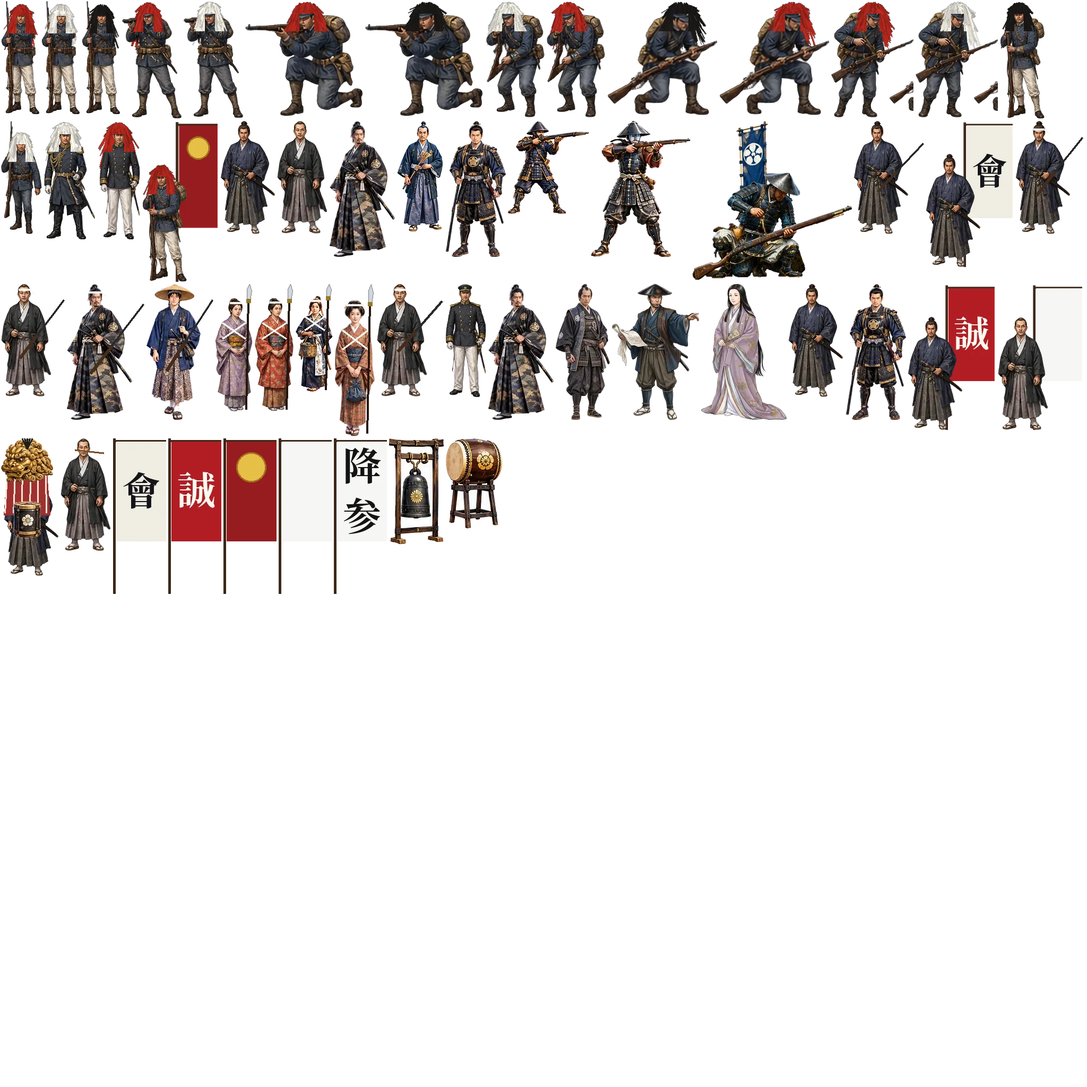
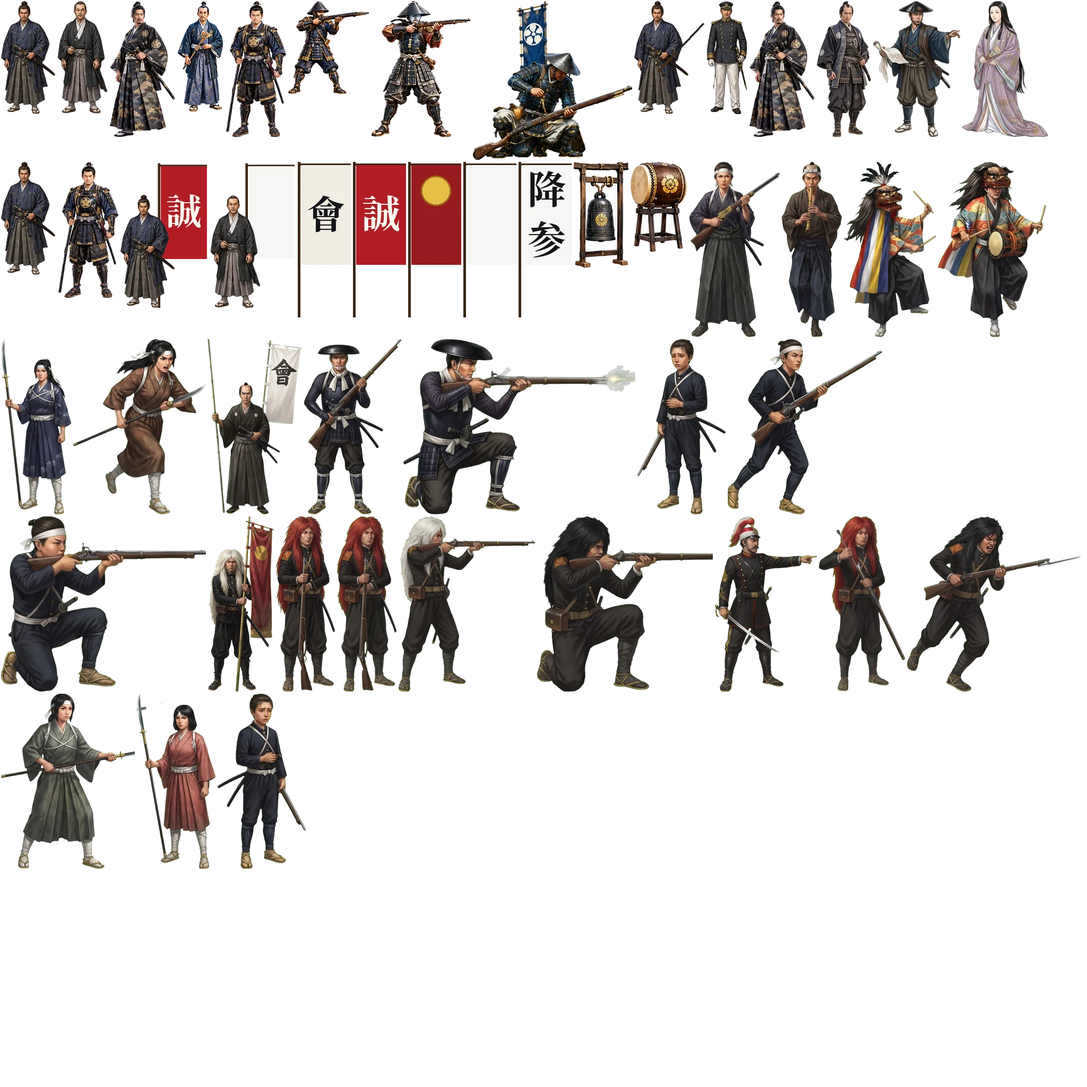
戊辰戦争の人物を描き起こしの絵に差し替え（新政府軍の赤熊・白熊・黒熊、錦の御旗、会津藩兵、白虎隊、娘子隊、山本八重、彼岸獅子）
Claude-Session: https://claude.ai/code/session_01QTjZDqYLxbLuLre2rSDNLb

diff --git a/index.html b/index.html
@@ -2937,7 +2937,7 @@ addEventListener('resize',sizePost); $('tQual').addEventListener('click',sizePos
 
 /* ================= 切り抜き画像（スプライト）: 人物・装飾品をアトラス画像から並べる ================= */
 const ATLAS_META={"size":2048,"pages":4,"s":{"t_nobori":[0,2,2,98,300,3.4],"g_nobori":[0,102,2,133,300,3.0],"nb_rokumon":[0,237,2,111,300,4.2],"kinsen":[0,350,2,103,300,4.2],"sennari":[0,455,2,88,300,4.2],"kama":[0,545,2,176,300,0.35],"chaire":[0,723,2,242,300,0.22],"ex_chatsubo":[0,967,2,269,300,0.42],"ex_do":[0,1238,2,192,300,0.7],"ex_hyotan":[0,1432,2,214,300,0.38],"ex_jingasa":[0,1648,2,300,300,0.32],"ex_kabuto1":[0,2,304,235,300,0.55],"ex_kabuto2":[0,239,304,256,300,0.55],"ex_kabuto3":[0,497,304,239,300,0.55],"ex_kabuto_bariin":[0,738,304,196,300,0.62],"ex_konten":[0,936,304,231,300,0.55],"ex_kouro":[0,1169,304,230,300,0.42],"ex_tsubo_matsu":[0,1401,304,251,300,0.42],"ex_vase_imari":[0,1654,304,148,300,0.5],"k_nb_aoi":[0,1804,304,84,300,4.2],"k_nb_ii":[0,1890,304,84,300,4.2],"k_nb_maeda":[0,2,606,94,300,4.2],"obj_hashigo":[0,98,606,139,300,4.5],"r_act_kiba":[0,239,606,259,300,2.9],"t_nb_green":[0,500,606,78,300,4.2],"t_nb_mori":[0,580,606,82,300,4.2],"k_nobori_b":[0,664,606,116,300,3.4],"r_act_kiba_b":[0,782,606,150,300,2.9],"t_nobori_b":[0,934,606,95,300,3.4],"k_act_reload":[0,1031,606,300,299,1.9],"ki_maru":[0,1333,606,300,299,1.1],"ki_jumonji":[0,1635,606,300,292,1.1],"ki_hyotan":[0,2,908,300,289,1.1],"ex_jinbaori1":[0,304,908,300,285,0.95],"ex_jinbaori2":[0,606,908,300,283,0.95],"ki_kashiwa":[0,908,908,300,282,1.1],"tsukaiban":[0,1210,908,300,281,2.7],"lord_green":[0,1512,908,300,277,1.25],"nb_black":[0,1814,908,96,276,4.2],"lord_navy":[0,2,1199,300,274,1.25],"horo":[0,304,1199,300,273,2.7],"ex_chawan_oribe":[0,606,1199,300,273,0.16],"nb_white":[0,908,1199,86,270,4.2],"k_act_fire":[0,996,1199,300,268,2.1],"nb_red":[0,1298,1199,76,264,4.2],"ki_kiri":[0,1376,1199,300,263,1.1],"nb_blue":[0,1678,1199,77,260,4.2],"ki_jumonji2":[0,2,1475,300,260,1.1],"ki_nibiki":[0,304,1475,300,259,1.1],"ki_mae":[0,606,1475,300,258,1.1],"nb_yellow":[0,908,1475,77,257,4.2],"mokko_b":[0,987,1475,300,257,1.75],"t_hideyori":[0,1289,1475,140,256,1.75],"t_bushou":[0,1431,1475,102,256,1.8],"t_yari":[0,1535,1475,98,256,1.75],"t_yumi":[0,1635,1475,121,256,1.8],"t_uma":[0,1758,1475,144,256,2.5],"r_yumi":[0,1904,1475,122,256,1.8],"taisho":[0,2,1737,135,256,1.85],"y_hb":[0,139,1737,96,256,1.75],"y_dark":[0,237,1737,100,256,1.8],"r_bushou":[0,339,1737,102,256,1.85],"ashigaru":[0,443,1737,112,256,1.75],"r_kiba":[0,557,1737,131,256,2.6],"teppo_a":[0,690,1737,187,256,1.65],"p_lord":[0,879,1737,123,256,1.75],"p_kabuto":[0,1004,1737,101,256,1.8],"p_yari":[0,1107,1737,84,256,1.75],"p_red":[0,1193,1737,108,256,1.8],"p_horse":[0,1303,1737,132,256,2.3],"p_monk":[0,1437,1737,94,256,1.75],"p_ninja":[0,1533,1737,143,256,1.6],"p_woman":[0,1678,1737,75,256,1.6],"p_flag":[0,1755,1737,107,256,2.6],"p_lav":[0,1864,1737,75,256,1.6],"p_porter":[1,2,2,113,256,1.7],"p_noble":[1,117,2,102,256,1.8],"p_orange":[1,221,2,81,256,1.6],"p_point":[1,304,2,101,256,1.75],"p_flagboy":[1,407,2,97,256,2.4],"p_naked":[1,506,2,118,256,1.7],"q_ronin":[1,626,2,112,256,1.75],"q_redw":[1,740,2,83,256,1.6],"q_merchant":[1,825,2,124,256,1.75],"q_yoke":[1,951,2,187,256,1.7],"q_green":[1,1140,2,76,256,1.6],"q_child":[1,1218,2,175,256,1.1],"q_oldw":[1,1395,2,120,256,1.5],"q_girl":[1,1517,2,108,256,1.45],"q_traveler":[1,1627,2,124,256,1.75],"q_purple":[1,1753,2,100,256,1.6],"w_samurai":[1,1855,2,115,256,1.8],"w_red":[1,1972,2,73,256,1.6],"w_yoke":[1,2,260,163,256,1.7],"w_bucket":[1,167,260,80,256,1.55],"w_traveler":[1,249,260,103,256,1.8],"w_boy":[1,354,260,124,256,1.3],"w_umbrella":[1,480,260,90,256,1.7],"w_box":[1,572,260,114,256,1.7],"w_oldw":[1,688,260,113,256,1.5],"w_youth":[1,803,260,102,256,1.75],"w_tray":[1,907,260,78,256,1.6],"w_straw":[1,987,260,110,256,1.75],"lady_walk":[1,1099,260,108,256,1.62],"lady_tray":[1,1209,260,84,256,1.6],"lady_tray2":[1,1295,260,109,256,1.6],"sam_kami":[1,1406,260,123,256,1.8],"sam_haori":[1,1531,260,113,256,1.8],"sam_armor":[1,1646,260,102,256,1.8],"lord_purple":[1,1750,260,246,256,1.25],"sanada":[1,2,518,152,256,2.3],"yodo":[1,156,518,159,256,1.62],"nene":[1,317,518,161,256,1.6],"rikyu":[1,480,518,97,256,1.68],"kimura":[1,579,518,126,256,2.35],"goto":[1,707,518,127,256,2.3],"mitsunari":[1,836,518,114,256,1.75],"ishibiki":[1,952,518,185,256,1.55],"nanban":[1,1139,518,121,256,1.85],"frois":[1,1262,518,87,256,1.75],"touryou":[1,1351,518,106,256,1.72],"ishiku":[1,1459,518,206,256,1.25],"takajo":[1,1667,518,149,256,1.75],"jijo":[1,1818,518,112,256,1.6],"bugyo":[1,2,776,164,256,1.8],"taketaba_a":[1,168,776,183,256,1.75],"teppo_k":[1,353,776,201,256,1.3],"taketaba":[1,556,776,100,256,2.0],"kokuin":[1,658,776,204,256,1.0],"act_carry":[1,864,776,151,256,2.3],"act_flee":[1,1017,776,193,256,2.2],"ex_hata":[1,1212,776,130,256,1.6],"ex_hideyoshi_zo":[1,1344,776,157,256,1.5],"ex_kakejiku_castle":[1,1503,776,128,256,1.5],"k_bs_date":[1,1633,776,199,256,2.6],"k_bs_honda":[1,1834,776,136,256,2.6],"k_bs_ii":[1,2,1034,106,256,2.6],"k_bs_maeda":[1,110,1034,142,256,2.6],"k_bs_matsudaira":[1,254,1034,112,256,2.6],"k_bs_satake":[1,368,1034,155,256,2.6],"k_bs_todo":[1,525,1034,133,256,2.6],"k_bs_uesugi":[1,660,1034,119,256,2.6],"obj_fuda":[1,781,1034,94,256,1.9],"obj_tate":[1,877,1034,202,256,1.6],"t_bs_akashi":[1,1081,1034,128,256,2.6],"t_bs_chosokabe":[1,1211,1034,137,256,2.6],"t_bs_kimura2":[1,1350,1034,125,256,2.6],"t_bs_mori":[1,1477,1034,180,256,2.6],"t_bs_ono":[1,1659,1034,146,256,2.6],"ashigaru_b":[1,1807,1034,104,256,1.75],"ishibiki_b":[1,2,1292,168,256,1.55],"ishiku_b":[1,172,1292,214,256,1.25],"k_act_fire_b":[1,388,1292,223,256,2.1],"k_act_reload_b":[1,613,1292,184,256,1.9],"k_act_taketaba_b":[1,799,1292,216,256,2.3],"k_bs_date_b":[1,1017,1292,191,256,2.6],"k_bs_honda_b":[1,1210,1292,111,256,2.6],"k_bs_ii_b":[1,1323,1292,98,256,2.6],"k_bs_maeda_b":[1,1423,1292,139,256,2.6],"k_bs_matsudaira_b":[1,1564,1292,112,256,2.6],"k_bs_satake_b":[1,1678,1292,131,256,2.6],"k_bs_todo_b":[1,1811,1292,138,256,2.6],"k_bs_uesugi_b":[1,2,1550,140,256,2.6],"k_bushou_b":[1,144,1550,110,256,1.8],"k_captain_b":[1,256,1550,107,256,1.75],"k_teppo_b":[1,365,1550,161,256,1.7],"k_uma_b":[1,528,1550,117,256,2.5],"k_yari_b":[1,647,1550,109,256,1.75],"k_yumi_b":[1,758,1550,164,256,1.8],"ninpu_b":[1,924,1550,104,256,1.65],"p_naked_b":[1,1030,1550,114,256,1.7],"p_porter_b":[1,1146,1550,114,256,1.7],"r_act_fire_b":[1,1262,1550,252,256,2.1],"r_bushou_b":[1,1516,1550,112,256,1.85],"r_kiba_b":[1,1630,1550,124,256,2.6],"r_yumi_b":[1,1756,1550,122,256,1.8],"t_act_yari_b":[2,2,2,229,256,2.0],"t_bs_akashi_b":[2,233,2,127,256,2.6],"t_bs_chosokabe_b":[2,362,2,142,256,2.6],"t_bs_kimura2_b":[2,506,2,134,256,2.6],"t_bs_mori_b":[2,642,2,170,256,2.6],"t_bs_ono_b":[2,814,2,136,256,2.6],"t_bushou_b":[2,952,2,105,256,1.8],"t_uma_b":[2,1059,2,113,256,2.5],"t_yari_b":[2,1174,2,97,256,1.75],"t_yumi_b":[2,1273,2,116,256,1.8],"taketaba_a_b":[2,1391,2,132,256,1.75],"teppo_a_b":[2,1525,2,180,256,1.65],"teppo_k_b":[2,1707,2,173,256,1.3],"y_dark_b":[2,1882,2,107,256,1.8],"y_hb_b":[2,2,260,89,256,1.75],"yari_a_b":[2,93,260,117,256,1.8],"pillar_k":[2,212,260,42,255,2.4],"k_yumi":[2,256,260,137,254,1.8],"ki_umebachi":[2,395,260,300,254,1.1],"kago":[2,697,260,300,253,2.0],"t_teppo_b":[2,999,260,212,253,1.7],"nb_stripe":[2,1213,260,74,252,4.2],"k_tate_b":[2,1289,260,300,250,2.2],"r_act_fire":[2,1591,260,300,249,2.1],"ex_chawan_gold":[2,2,518,270,248,0.16],"nb_yel2":[2,274,518,73,246,4.2],"nb_white2":[2,349,518,71,246,4.2],"ex_sensu_kiri":[2,422,518,300,245,0.32],"ex_kawara":[2,724,518,300,244,0.3],"k_nobori":[2,1026,518,108,242,3.4],"nb_green2":[2,1136,518,63,242,4.2],"k_act_taketaba":[2,1201,518,300,242,2.3],"nb_navyw":[2,1503,518,70,241,4.2],"ex_sensu_tsuru":[2,1575,518,300,239,0.32],"ex_monjo":[2,2,768,300,237,0.3],"ki_naka":[2,304,768,300,237,1.1],"ki_uroko":[2,606,768,300,237,1.1],"nb_purple":[2,908,768,78,236,4.2],"nb_tomoe":[2,988,768,75,236,4.2],"nb_navy":[2,1065,768,75,236,4.2],"ki_sanbo":[2,1142,768,300,236,1.1],"t_teppo":[2,1444,768,181,235,1.7],"mokko":[2,1627,768,300,235,1.75],"nb_cross":[2,1929,768,78,234,4.2],"torch_pole":[2,2,1007,48,234,2.2],"hideyoshi":[2,52,1007,300,233,1.3],"k_bushou":[2,354,1007,99,232,1.8],"nb_green":[2,455,1007,71,231,4.2],"nobori_pair":[2,528,1007,133,229,3.0],"k_ieyasu":[2,663,1007,156,228,1.3],"ex_hako_tsuru":[2,821,1007,300,228,0.4],"nb_white_k":[2,1123,1007,101,227,4],"toro4":[2,1226,1007,93,227,2.0],"nobori_kid":[2,1321,1007,71,225,2.8],"yari_a":[2,1394,1007,105,225,1.8],"kasa":[2,1501,1007,174,225,2.6],"kuge":[2,1677,1007,86,224,1.85],"toro2":[2,1765,1007,70,224,1.9],"k_uma":[2,1837,1007,178,223,2.5],"onna_musha":[2,2,1243,70,223,1.65],"t_monk":[2,74,1243,102,222,1.75],"ex_byobu_castle":[2,178,1243,300,219,1.25],"k_yari":[2,480,1243,101,217,1.75],"yagura_w":[2,583,1243,124,217,4.5],"toro1":[2,709,1243,56,217,0.9],"k_act_climb":[2,767,1243,300,216,2.4],"k_zouhei_b":[2,1069,1243,234,216,1.7],"yagura_flag":[2,1305,1243,120,214,6],"by_pine":[2,1427,1243,314,214,1.7],"by_sakura":[2,1743,1243,277,214,1.7],"armor":[2,2,1468,110,213,1.5],"toro3":[2,114,1468,132,213,2.2],"taore":[2,248,1468,300,212,0.75],"samurai_p":[2,550,1468,97,211,1.75],"samurai_a":[2,649,1468,112,211,1.75],"by_crane":[2,763,1468,253,210,1.7],"ex_hako_kiri":[2,1018,1468,300,210,0.38],"by_iris":[2,1320,1468,190,209,1.7],"t_act_yari":[2,1512,1468,300,209,2.0],"samurai_b":[2,1814,1468,86,208,1.75],"by_tiger":[2,2,1683,180,208,1.7],"chawan":[2,184,1683,300,206,0.09],"by_kiri":[2,486,1683,224,205,1.7],"t_taitsutsu":[2,712,1683,112,204,1.75],"umajirushi":[2,826,1683,122,203,3.0],"kagaribi2":[2,950,1683,55,202,1.7],"obj_hyorou":[2,1007,1683,300,202,1.0],"kakejiku":[2,1309,1683,77,201,1.6],"bell":[2,1388,1683,103,200,2.4],"musume_r":[2,1493,1683,63,198,1.6],"ex_byobu_sakura":[2,1558,1683,300,198,1.25],"yari_pair":[2,1860,1683,124,197,1.75],"houou":[3,2,2,196,196,1.4],"tabisou":[3,200,2,88,193,1.8],"kuge_g":[3,290,2,88,193,1.8],"ex_byobu_castle2":[3,380,2,300,189,1.25],"uma_rider":[3,682,2,162,187,2.3],"yagura":[3,846,2,117,187,6],"lan_white":[3,965,2,84,186,0.8],"kabuto":[3,1051,2,127,185,0.6],"maku_r":[3,1180,2,93,184,1.6],"maku_w":[3,1275,2,98,183,1.6],"maku_p":[3,1375,2,101,182,1.6],"k_monk":[3,1478,2,96,181,1.75],"onna_b":[3,1576,2,70,181,1.6],"andon_g":[3,1648,2,91,181,0.85],"kagaribi":[3,1741,2,52,179,1.7],"saku":[3,1795,2,199,179,2.2],"lan_red":[3,2,200,71,178,0.8],"koshi":[3,75,200,237,178,1.8],"ex_emaki1":[3,314,200,300,178,0.32],"shoji":[3,616,200,260,177,1.8],"lan_tomoe":[3,878,200,65,176,0.8],"k_teppo":[3,945,200,153,175,1.7],"shonin":[3,1100,200,85,174,1.7],"ex_emaki2":[3,1187,200,300,173,0.32],"taiko":[3,1489,200,107,170,1.5],"fs_castle":[3,1598,200,284,170,1.8],"fs_ume":[3,2,380,241,170,1.8],"fs_pine":[3,245,380,271,170,1.8],"chochin":[3,518,380,81,170,1.2],"ex_norimono":[3,601,380,300,170,1.25],"workers":[3,903,380,211,169,1.8],"okami_p":[3,1116,380,59,169,1.6],"jin_gate":[3,1177,380,219,168,3.4],"teppo_line":[3,1398,380,281,167,1.7],"ninpu":[3,1681,380,72,167,1.65],"oni2":[3,1755,380,187,164,1.0],"ikebana":[3,2,552,110,163,0.7],"cannon_c":[3,114,552,275,162,1.9],"roujin":[3,391,552,85,162,1.65],"andon":[3,478,552,81,162,0.9],"onigawara":[3,561,552,187,162,1.2],"wara":[3,750,552,91,161,1.7],"miko":[3,843,552,61,159,1.6],"bonsai":[3,906,552,147,159,0.6],"ishiyama":[3,1055,552,300,159,1.6],"k_captain":[3,1357,552,106,158,1.75],"cart":[3,1465,552,203,158,1.9],"maru_mado":[3,1670,552,152,158,1.2],"log":[3,1824,552,106,155,1.6],"lan_small":[3,1932,552,45,153,1.3],"kg_pair":[3,2,717,75,152,0.9],"bows":[3,79,717,70,149,2.0],"mon_board":[3,151,717,192,149,1.6],"t_yuso":[3,345,717,204,148,1.9],"gold_uma":[3,551,717,77,148,2.6],"ex_katana1":[3,630,717,300,147,0.42],"cabinet":[3,932,717,101,146,1.0],"ryu_c":[3,1035,717,197,145,1.0],"t_ninja":[3,1234,717,122,144,1.4],"ryu":[3,1358,717,216,144,1.2],"ex_byobu_kassen":[3,1576,717,300,144,1.25],"by_small":[3,2,871,186,143,1.2],"k_ninja":[3,190,871,121,142,1.4],"shelf":[3,313,871,146,142,0.9],"shishi":[3,461,871,167,142,1.2],"saru":[3,630,871,169,142,0.8],"jar":[3,801,871,89,141,0.55],"taka":[3,892,871,92,141,0.7],"t_hoju":[3,986,871,155,140,1.9],"spears":[3,1143,871,11,140,2.6],"jinmaku":[3,1156,871,300,138,1.8],"vase":[3,1458,871,72,137,0.55],"ex_teppo":[3,1532,871,300,137,0.38],"k_act_ozutsu":[3,2,1016,300,135,2.0],"ex_katana2":[3,304,1016,300,133,0.42],"shura":[3,606,1016,300,132,1.6],"saku_w":[3,908,1016,300,131,2.0],"arrows":[3,1210,1016,31,131,1.1],"chest":[3,1243,1016,183,131,0.6],"shishi_c":[3,1428,1016,119,131,0.8],"act_fallen":[3,1549,1016,300,131,0.8],"hana_c":[3,1851,1016,128,130,0.8],"ogi":[3,2,1153,190,129,0.55],"houou_c":[3,194,1153,122,129,0.8],"sakamogi":[3,318,1153,300,127,1.7],"tora_c":[3,620,1153,157,127,0.8],"obj_mokko":[3,779,1153,300,127,0.7],"k_hoju":[3,1081,1153,236,126,1.8],"k_kago":[3,1319,1153,174,125,2.1],"kodomo":[3,1495,1153,59,125,1.2],"kg_t":[3,1556,1153,35,124,0.9],"kg_pair2":[3,1593,1153,75,124,0.9],"taka_c":[3,1670,1153,143,124,0.8],"rail_k":[3,1815,1153,216,123,0.9],"oni5":[3,2,1284,188,122,0.7],"ex_katana3":[3,192,1284,300,122,0.42],"k_zouhei":[3,494,1284,159,121,1.7],"k_tate":[3,655,1284,176,121,2.2],"box_l":[3,833,1284,150,121,0.5],"kg_door":[3,985,1284,76,121,1.0],"ozutsu":[3,1063,1284,300,121,1.4],"guns":[3,1365,1284,85,120,1.6],"machishu":[3,1452,1284,138,117,1.7],"oni6":[3,1592,1284,185,117,0.65],"cannon":[3,1779,1284,199,116,1.1],"k_yuso":[3,2,1408,140,115,1.9],"kg_plate":[3,144,1408,65,115,0.8],"flags2":[3,211,1408,86,114,1.6],"kg_t2":[3,299,1408,39,114,0.9],"chest_m":[3,340,1408,159,113,0.6],"cart2":[3,501,1408,155,112,1.8],"kadomatsu":[3,658,1408,55,112,1.2],"incense":[3,715,1408,73,111,0.6],"tassel":[3,790,1408,77,111,0.6],"dais":[3,869,1408,158,109,1.2],"oni3":[3,1029,1408,161,109,0.8],"pot":[3,1192,1408,102,108,0.7],"kouro":[3,1296,1408,124,106,0.4],"crane_c":[3,1422,1408,205,105,0.9],"rail_k2":[3,1629,1408,239,104,0.8],"rail_r":[3,2,1525,186,100,0.8],"kg_panel":[3,190,1525,127,100,0.8],"lowtable":[3,319,1525,271,97,0.35],"shogi":[3,592,1525,120,97,0.5],"chest_r":[3,714,1525,142,96,0.7],"fence_r":[3,858,1525,157,95,0.9],"barrels":[3,1017,1525,150,94,1.2],"kin_byobu":[3,1169,1525,130,94,1.4],"chaki":[3,1301,1525,165,94,0.25],"table":[3,1468,1525,240,93,0.35],"crates":[3,1710,1525,151,92,1.1],"tray_r":[3,1863,1525,170,91,0.25],"oni4":[3,2,1627,161,88,0.55],"drumbox":[3,165,1627,64,87,0.6],"tawara":[3,231,1627,82,86,0.55],"box_s":[3,315,1627,123,86,0.3],"kome":[3,440,1627,125,85,1.2],"mon_hana":[3,567,1627,82,84,0.6],"oni7":[3,651,1627,66,83,0.5],"oni8":[3,719,1627,56,83,0.5],"mon_d":[3,777,1627,81,82,0.6],"trunk":[3,860,1627,114,81,0.6],"mon_sakura":[3,976,1627,81,81,0.6],"chest_k":[3,1059,1627,123,79,0.7],"mon_a":[3,1184,1627,79,79,0.6],"mon_tomoe":[3,1265,1627,78,79,0.6],"zabuton_g":[3,1345,1627,103,76,0.15],"ranma3":[3,1450,1627,512,76,0.6],"mon_c":[3,1964,1627,75,76,0.6],"mon_kiku":[3,2,1717,75,76,0.6],"mon_mokko":[3,79,1717,76,76,0.6],"ranma4":[3,157,1717,512,75,0.6],"mon_hishi":[3,671,1717,75,75,0.6],"bucket":[3,748,1717,58,73,0.5],"zabuton_r":[3,808,1717,136,73,0.15],"ranma1":[3,946,1717,512,73,0.7],"zabuton_p":[3,1460,1717,98,71,0.15],"mon_b":[3,1560,1717,77,71,0.6],"kg_h":[3,1639,1717,172,70,0.35],"ranma2":[3,2,1795,512,67,0.6],"ranma7":[3,516,1795,265,66,0.45],"ranma8":[3,783,1795,270,66,0.45],"ranma5":[3,1055,1795,266,65,0.45],"ranma6":[3,1323,1795,270,65,0.45],"kumo_c":[3,1595,1795,127,64,0.45],"stool":[3,1724,1795,94,58,0.45],"kg_h2":[3,1820,1795,170,45,0.3],"kg_stud":[3,1992,1795,36,39,0.14],"noki_end":[3,2,1864,152,37,0.25],"kg_stud3":[3,156,1864,34,35,0.14],"kg_stud2":[3,192,1864,31,31,0.12]}};
-ATLAS_META.pages=6; Object.assign(ATLAS_META.s,KMD); const AZD={"az_kan_hohei_a_r":[5,2,2,72,214,1.82],"az_kan_hohei_a_w":[5,78,2,72,214,1.82],"az_kan_hohei_a_b":[5,154,2,72,214,1.82],"az_kan_aim_r":[5,230,2,112,221,1.82],"az_kan_aim_w":[5,346,2,112,220,1.82],"az_kan_kneel_r":[5,462,2,222,217,1.19],"az_kan_kneel_b":[5,688,2,222,217,1.19],"az_kan_load_w":[5,914,2,112,219,1.64],"az_kan_load_r":[5,1030,2,110,219,1.64],"az_kan_crouch_b":[5,1144,2,207,215,1.06],"az_kan_crouch_r":[5,1355,2,207,215,1.06],"az_kan_charge_r":[5,1566,2,155,219,1.7],"az_kan_charge_w":[5,1725,2,155,219,1.7],"az_kan_hohei_b_b":[5,1884,2,84,222,1.82],"az_kan_hohei_c_w":[5,2,228,77,213,1.84],"az_kan_shirei":[5,83,228,96,223,1.89],"az_kan_shikan":[5,183,228,81,223,1.84],"az_kinki":[5,268,228,144,303,2.58],"az_ai_shizoku":[5,416,228,102,213,1.72],"az_ai_shosei":[5,522,228,95,212,1.7],"az_ai_sam_kami":[5,621,228,123,256,1.8],"az_ai_samurai_b":[5,748,228,86,208,1.75],"az_ai_w_samurai":[5,838,228,115,256,1.8],"az_ai_k_teppo":[5,957,228,153,175,1.7],"az_ai_teppo_a":[5,1114,228,187,256,1.65],"az_ai_k_act_reload":[5,1305,228,300,299,1.9],"az_ai_gun":[5,1609,228,132,213,1.72],"az_aizuflag":[5,1745,228,165,276,2.58],"az_byakko0":[5,1914,228,127,213,1.6],"az_byakko1":[5,2,535,120,212,1.6],"az_byakko2":[5,126,535,146,256,1.6],"az_byakko3":[5,276,535,126,256,1.6],"az_joshi0":[5,406,535,70,240,1.6],"az_joshi1":[5,480,535,73,240,1.6],"az_joshi2":[5,557,535,70,203,1.6],"az_joshi3":[5,631,535,75,287,1.6],"az_yae":[5,710,535,125,212,1.56],"az_hijikata":[5,839,535,77,213,1.72],"az_saito":[5,920,535,123,256,1.75],"az_katamori":[5,1047,535,102,256,1.68],"az_tanomo":[5,1153,535,164,256,1.66],"az_teruhime":[5,1321,535,161,256,1.58],"az_yamakawa":[5,1486,535,102,213,1.72],"az_byakko_sen":[5,1592,535,115,256,1.66],"az_makoto":[5,1711,535,165,276,2.58],"az_hakki":[5,1880,535,161,276,2.55],"az_shishi":[5,2,826,108,259,1.85],"az_fue":[5,114,826,95,212,1.7],"az_nobori_ai":[5,213,826,100,293,3.4],"az_nobori_makoto":[5,317,826,100,293,3.4],"az_kinki_pole":[5,421,826,100,293,3.6],"az_shirahata":[5,525,826,100,293,3.2],"az_kouhuku":[5,629,826,100,293,3.2],"az_bell":[5,733,826,103,200,2.4],"az_taiko":[5,840,826,107,170,1.5]}; Object.assign(ATLAS_META.s,AZD); /* 6ページ目: 鶴ヶ城の人物（新政府軍・会津藩兵・白虎隊・娘子隊・新選組・彼岸獅子など。assets/deco_aizu.webp） */
+ATLAS_META.pages=6; Object.assign(ATLAS_META.s,KMD); const AZD={"az_ai_shizoku":[5,2,2,102,213,1.72],"az_ai_shosei":[5,108,2,95,212,1.7],"az_ai_sam_kami":[5,207,2,123,256,1.8],"az_ai_samurai_b":[5,334,2,86,208,1.75],"az_ai_w_samurai":[5,424,2,115,256,1.8],"az_ai_k_teppo":[5,543,2,153,175,1.7],"az_ai_teppo_a":[5,700,2,187,256,1.65],"az_ai_k_act_reload":[5,891,2,300,299,1.9],"az_ai_gun":[5,1195,2,132,213,1.72],"az_hijikata":[5,1331,2,77,213,1.72],"az_saito":[5,1412,2,123,256,1.75],"az_katamori":[5,1539,2,102,256,1.68],"az_tanomo":[5,1645,2,164,256,1.66],"az_teruhime":[5,1813,2,161,256,1.58],"az_yamakawa":[5,2,305,102,213,1.72],"az_byakko_sen":[5,108,305,115,256,1.66],"az_makoto":[5,227,305,165,276,2.58],"az_hakki":[5,396,305,161,276,2.55],"az_nobori_ai":[5,561,305,100,293,3.4],"az_nobori_makoto":[5,665,305,100,293,3.4],"az_kinki_pole":[5,769,305,100,293,3.6],"az_shirahata":[5,873,305,100,293,3.2],"az_kouhuku":[5,977,305,100,293,3.2],"az_bell":[5,1081,305,103,200,2.4],"az_taiko":[5,1188,305,107,170,1.5],"az_yae":[5,1299,305,170,330,1.6],"az_fue":[5,1473,305,113,330,1.68],"az_shishi":[5,1590,305,173,330,1.95],"az_shishi2":[5,1767,305,204,330,1.85],"az_joshi1":[5,2,639,132,330,2.2],"az_joshi0":[5,138,639,249,330,1.5],"az_aizuflag":[5,391,639,178,330,2.6],"az_ai_jin":[5,573,639,183,330,1.75],"az_ai_jin_kneel":[5,760,639,437,330,1.2],"az_byakko2":[5,1201,639,166,330,1.58],"az_byakko0":[5,1371,639,291,330,1.6],"az_byakko1":[5,2,973,386,330,1.12],"az_kinki":[5,392,973,124,330,3.4],"az_kan_r_stand":[5,520,973,111,330,1.78],"az_kan_r_stand2":[5,635,973,112,330,1.78],"az_kan_w_aim":[5,751,973,257,330,1.72],"az_kan_b_kneel":[5,1012,973,331,330,1.25],"az_kan_shirei":[5,1347,973,192,330,1.85],"az_kan_r_load":[5,1543,973,162,329,1.78],"az_kan_b_charge":[5,1709,973,327,330,1.5],"az_joshi2":[5,2,1307,252,330,1.65],"az_joshi3":[5,258,1307,148,330,2.05],"az_byakko3":[5,410,1307,166,330,1.58]}; Object.assign(ATLAS_META.s,AZD); /* 6ページ目: 鶴ヶ城の人物（新政府軍・会津藩兵・白虎隊・娘子隊・新選組・彼岸獅子など。assets/deco_aizu.webp） */
  /* 5ページ目: 共通素材 deco_kumamoto.webp */
 const ATL={tex:[],ok:false}; { const tl=new THREE.TextureLoader(); for(let i=0;i<ATLAS_META.pages;i++){ const t=tl.load(i<4?'/oshiro/common/assets/atlas'+i+'.webp':i===4?'/oshiro/common/assets/deco_kumamoto.webp':'assets/deco_aizu.webp',()=>{ ATL.loaded=(ATL.loaded||0)+1; }); t.encoding=THREE.sRGBEncoding; t.anisotropy=4; ATL.tex.push(t); } }
 function sprInfo(n){ const m=ATLAS_META.s[n]; if(!m) return null; const P=ATLAS_META.size; return {page:m[0],u:m[1]/P,v:1-(m[2]+m[4])/P,uw:m[3]/P,vh:m[4]/P,h:m[5],aspect:m[3]/m[4]}; }
@@ -3132,12 +3132,12 @@ function flName(){ const F=FL[P.level]; if(F&&F.zones) for(const z of F.zones) i
 function keepState(s){ KX.visible=true; KXI.visible=true; GOTG.visible=true; }
 function fireStep(){ }
 /* ---------- 部隊（兵の集団）---------- */
-const KAN=['az_kan_hohei_a_r','az_kan_aim_r','az_kan_hohei_a_w','az_kan_kneel_r','az_kan_load_w','az_kan_hohei_a_b','az_kan_crouch_b','az_kan_charge_r','az_kan_aim_w','az_kan_kneel_b','az_kan_load_r','az_kan_crouch_r','az_kan_charge_w','az_kan_hohei_b_b','az_kan_hohei_c_w'],
-  KAN_STAND=['az_kan_hohei_a_r','az_kan_hohei_a_w','az_kan_hohei_a_b','az_kan_hohei_b_b','az_kan_hohei_c_w'],
-  AI_INF=['az_ai_shizoku','az_ai_gun','az_ai_shosei','az_ai_sam_kami','az_ai_samurai_b','az_ai_w_samurai','az_ai_k_teppo','az_ai_teppo_a','az_ai_gun'],AI_LINE=['az_ai_k_teppo','az_ai_teppo_a','az_ai_gun','az_ai_k_act_reload','az_ai_shizoku'],
+const KAN=['az_kan_r_stand','az_kan_w_aim','az_kan_b_kneel','az_kan_r_load','az_kan_b_charge','az_kan_r_stand2','az_kan_w_aim','az_kan_b_kneel'],
+  KAN_STAND=['az_kan_r_stand','az_kan_r_stand2'],
+  AI_INF=['az_ai_jin','az_ai_shizoku','az_ai_jin_kneel','az_ai_gun','az_ai_jin','az_ai_samurai_b','az_ai_k_teppo','az_ai_jin_kneel'],AI_LINE=['az_ai_jin_kneel','az_ai_jin','az_ai_k_teppo','az_ai_jin_kneel','az_ai_teppo_a'],
   SHINSEN=['az_hijikata','az_ai_shizoku','az_ai_gun','az_ai_shosei','az_ai_gun'],BYAKKO=['az_byakko0','az_byakko1','az_byakko2','az_byakko3'],JOSHI=['az_joshi0','az_joshi1','az_joshi2','az_joshi3'],
   CIV=['km_musume','km_onna','km_nofu','km_kodomo','km_mino','km_sou','q_merchant','okami_p','w_box','ninpu'],
-  K_FLAG=['az_nobori_ai'],T_FLAG=['az_kinki_pole'],K_INF=AI_INF,K_LINE=AI_LINE,T_INF=KAN,RED=KAN,WORK=CIV,PULL=CIV;
+  K_FLAG=['az_nobori_ai'],T_FLAG=['az_kinki'],K_INF=AI_INF,K_LINE=AI_LINE,T_INF=KAN,RED=KAN,WORK=CIV,PULL=CIV;
 let UNITS=[],FXS=[],phT=0,PH=null;
 function unit(o){ const u=Object.assign({n:12,w:24,d:6,y:null,fire:0,loss:0,mill:0,spd:1},o); u.side=unitSide(u.spr); u.scal=!u.noScale&&u.n>3&&!!u.side; if(u.scal) u.n=Math.max(1,Math.round(u.n*(UMULT[u.side]??1))); const to=u.to||u.at,dx=to[0]-u.at[0],dz=to[1]-u.at[1],l=Math.hypot(dx,dz);
   const fwd=l>.1?[dx/l,dz/l]:(u.face||[0,-1]); u.fwd=fwd; u.right=[-fwd[1],fwd[0]]; const cols=Math.max(1,Math.round(Math.sqrt(u.n*u.w/Math.max(1,u.d)))),rows=Math.ceil(u.n/cols); u.mem=[];
@@ -3185,7 +3185,7 @@ function dc(sp,x,z,o){ return DC(sp,x,z,o); }
 function who(sp,x,z,name,say,o){ const it=DC(sp,x,z,o||{}); if(it) TALK.push({it,name,say,era:'edo',scen:'boshin'}); return it; }
 const AIZU_HQ=()=>{ who('az_katamori',-24,-30,'松平容保（会津藩主）','会津は将軍家とともにある。この城を枕に、最後まで戦い抜くのじゃ。'); dc('az_nobori_ai',-30,-34,{}); dc('az_nobori_ai',-18,-34,{}); };
 /* 開城の式場の緋毛氈（泣血氈） */
-const FELT=mesh(new THREE.BoxGeometry(8,.06,14),M.felt,false,true); FELT.position.set(-11,.05,-206); GB.add(FELT); FELT.visible=false;
+const FELT=mesh(new THREE.BoxGeometry(5,.06,9),M.felt,false,true); FELT.position.set(-11,.05,-206); GB.add(FELT); FELT.visible=false;
 const SCENS={boshin:{name:'戊辰戦争（慶応4年・1868）',fill:{},phases:[
  {date:'慶応4年（1868）春〜夏',title:'会津、戦いに備える',time:1,dur:70,cam:camTo(300,240,TA.cx,TA.cz,-.25,1),gnd:[462,186,480,170],
   text:'鳥羽・伏見の戦いに敗れたあと、京都守護職として朝廷と幕府を守ってきた会津藩は「朝敵」とされ、新政府軍の矛先が向けられます。会津藩は軍の仕組みを改め、年齢ごとに玄武隊（50歳以上）・青龍隊（36〜49歳）・朱雀隊（18〜35歳）・白虎隊（16〜17歳）を作りました。会津には旧幕府方の兵も集まり、新選組の土方歳三・斎藤一もその中にいました。',
@@ -3200,7 +3200,7 @@ const SCENS={boshin:{name:'戊辰戦争（慶応4年・1868）',fill:{},phases:[
     unit({spr:AI_INF,n:12,at:[545,-525],w:22,d:6,face:[1,-1],fire:.5,aim:[600,-600],to:[505,-490],t0:42,dur:25,back:0,loss:.15});
     unit({spr:KAN,n:16,at:[620,-600],to:[555,-548],t0:2,dur:35,w:36,d:10,fire:.6,fireT0:20,aim:[530,-530],loss:.1});
     unit({spr:KAN,n:12,at:[600,-480],to:[552,-515],t0:10,dur:35,w:24,d:8,fire:.6,fireT0:28,aim:[530,-530]});
-    dc('km_hohou',600,-590,{}); FXS.push({type:'cannon',from:[600,h,-590],to:[535,h+2,-535],every:5,spread:10}); dc('az_kinki_pole',616,-596,{}); }},
+    dc('km_hohou',600,-590,{}); FXS.push({type:'cannon',from:[600,h,-590],to:[535,h+2,-535],every:5,spread:10}); dc('az_kinki',616,-596,{}); }},
  {date:'慶応4年8月22日',title:'白虎隊、出陣（滝沢本陣）',time:1,dur:70,cam:camTo(360,-460,400,-420,-.3,1),gnd:[400,-404,400,-420],
   text:'母成峠が破られたと聞いた藩主・松平容保は、城下の東の滝沢本陣に出陣しました。そして護衛についていた白虎隊士中二番隊（約37人）に、猪苗代湖のほとりの戸ノ口原へ向かうよう命じます。16〜17歳の少年たちは、日向内記に率いられて出陣しました。',
   build(){ who('az_katamori',400,-412,'松平容保（会津藩主）','白虎隊士中二番隊、戸ノ口原へ向かい、敵を防げ。頼んだぞ。'); for(const [x,z] of [[394,-414],[406,-414]]) dc('az_ai_samurai_b',x,z,{}); dc('az_nobori_ai',392,-418,{}); dc('az_nobori_ai',408,-418,{});
@@ -3210,11 +3210,11 @@ const SCENS={boshin:{name:'戊辰戦争（慶応4年・1868）',fill:{},phases:[
   build(){ unit({spr:BYAKKO,n:16,at:[478,-470],w:18,d:5,face:[1,-1],fire:.6,aim:[540,-530],to:[372,-320],t0:30,dur:40,noScale:true});
     unit({spr:AI_INF,n:10,at:[490,-458],w:18,d:6,face:[1,-1],fire:.5,aim:[540,-530],to:[400,-400],t0:28,dur:40,loss:.2});
     unit({spr:KAN,n:18,at:[560,-560],to:[500,-495],t0:2,dur:35,w:36,d:10,fire:.7,fireT0:12,aim:[478,-470]}); unit({spr:KAN,n:12,at:[560,-460],to:[510,-470],t0:8,dur:35,w:22,d:8,fire:.6,fireT0:18,aim:[478,-470]});
-    dc('km_hohou',545,-520,{}); FXS.push({type:'cannon',from:[545,natH(545,-520),-520],to:[482,1,-466],every:4,spread:12}); dc('az_kinki_pole',556,-528,{}); }},
+    dc('km_hohou',545,-520,{}); FXS.push({type:'cannon',from:[545,natH(545,-520),-520],to:[482,1,-466],every:4,spread:12}); dc('az_kinki',556,-528,{}); }},
  {date:'慶応4年8月23日 朝',title:'城下へ突入・北出丸の攻防',time:0,dur:85,cam:camTo(-11,-430,-11,-300,-.35,1),gnd:[-11,-196,-11,-150],
   text:'8月23日の朝、新政府軍は甲賀町口郭門を破って城下になだれ込みました。早鐘が鳴り、藩士の家族は城へ急ぎます。家老・西郷頼母の屋敷では一族21人が自ら命を絶ちました。甲賀町通りを進んだ新政府軍は北出丸からの激しい銃撃に阻まれ、多くの死傷者を出します（北出丸は「鏖丸」と呼ばれたと伝わります）。こうして約1か月にわたる籠城戦が始まりました。',
   build(){ AIZU_HQ(); dc('az_bell',-22,-342,{}); townFires([[-120,-260,8],[130,-280,8],[-200,-300,9],[-60,-420,8],[200,-300,7],[-300,-420,8]]); smokeCols([[0,-380],[-160,-350],[160,-350]]);
-    unit({spr:KAN,n:14,at:[-11,-540],to:[-11,-345],t0:0,dur:25,w:8,d:26,fire:.3,fl:['az_kinki_pole'],flags:1});
+    unit({spr:KAN,n:14,at:[-11,-540],to:[-11,-345],t0:0,dur:25,w:8,d:26,fire:.3,fl:['az_kinki'],flags:1});
     unit({spr:KAN,n:16,at:[-11,-345],to:[-11,-196],t0:22,dur:28,w:10,d:30,fire:.6,fireT0:38,aim:[-11,-150],back:.35,hold:10,bdur:20,loss:.35});
     wallLine(-56,-148,36,-148,PL.kitaide.H,[0,-1],6,{fire:.7}); who('az_ai_sam_kami',-30,-130,'北出丸の守将','引きつけて撃て！ 一人たりとも通すな！');
     unit({spr:CIV,n:14,at:[150,-260],to:[60,-160],t0:0,dur:40,w:20,d:10,noScale:true}); unit({spr:CIV,n:10,at:[-150,-250],to:[-150,-10],t0:5,dur:45,w:14,d:8,noScale:true});
@@ -3230,15 +3230,15 @@ const SCENS={boshin:{name:'戊辰戦争（慶応4年・1868）',fill:{},phases:[
   build(){ unit({spr:JOSHI,n:12,at:[-430,-120],to:[-472,-120],t0:6,dur:22,w:10,d:6,noScale:true,back:.5,hold:12,bdur:20}); who('az_joshi1',-440,-112,'中野竹子（娘子隊）','武士の娘として、薙刀で会津のために戦います！');
     unit({spr:AI_INF,n:8,at:[-436,-140],to:[-470,-135],t0:4,dur:22,w:12,d:6,fire:.5,aim:[-520,-130],back:.5,hold:12});
     unit({spr:KAN,n:12,at:[-540,-120],to:[-500,-120],t0:0,dur:20,w:18,d:10,fire:.8,fireT0:14,aim:[-470,-120],loss:.1}); unit({spr:KAN,n:8,at:[-540,-170],to:[-505,-150],t0:4,dur:20,w:14,d:8,fire:.6,fireT0:16,aim:[-470,-130]}); }},
- {date:'慶応4年8月26日',title:'彼岸獅子入城（山川大蔵）',time:0,dur:80,cam:camTo(-300,60,-200,1,-.3,1),gnd:[-240,14,-260,2],
+ {date:'慶応4年8月26日',title:'彼岸獅子入城（山川大蔵）',time:0,dur:80,cam:camTo(-300,60,-200,1,-.3,1),gnd:[-296,1,-340,1],
   text:'日光口で戦っていた家老・山川大蔵（のちの浩）の隊が城へ戻ってきましたが、城は新政府軍に囲まれていました。大蔵は小松村の彼岸獅子の一行を先頭に立て、笛と太鼓を鳴らしながら堂々と行進させます。あっけにとられた新政府軍が見送るなか、隊は一兵も失わずに西出丸から入城したと伝わります。',
-  build(){ unit({spr:['az_shishi','az_shishi','az_fue','az_shishi'],n:4,at:[-470,1],to:[-180,1],t0:2,dur:70,w:6,d:3,noScale:true});
+  build(){ unit({spr:['az_shishi','az_shishi2','az_fue','az_shishi2'],n:4,at:[-470,1],to:[-180,1],t0:2,dur:70,w:6,d:3,noScale:true});
     unit({spr:AI_INF,n:14,at:[-490,1],to:[-205,1],t0:4,dur:70,w:6,d:24,noScale:true,fl:['az_nobori_ai'],flags:1}); who('az_yamakawa',-470,8,'山川大蔵（家老）','笛と太鼓を鳴らせ。胸を張って進め。敵が呆れているうちに城へ入るのだ！');
     unit({spr:KAN,n:10,at:[-330,-60],w:30,d:8,face:[0,1],noScale:true}); unit({spr:KAN,n:10,at:[-330,60],w:30,d:8,face:[0,-1],noScale:true});
     wallLine(-190,-60,-190,60,PL.nishide.H,[-1,0],4,{fire:0}); }},
  {date:'慶応4年9月14日〜',title:'小田山の砲撃・籠城',time:2,dur:85,cam:camTo(300,250,370,320,-.3,1),gnd:[-20,12,-12,24],
   text:'9月14日、新政府軍は城の南東の小田山に大砲を据えて総攻撃を始め、1日に数千発ともいわれる砲弾を撃ち込みました。天守にも何発も命中しましたが、城は落ちません。城内では照姫を中心に女性たちが負傷者を看護し、落ちてきた焼玉（焼けた砲弾）に濡れた布団をかぶせて消しました。山本八重は銃で戦い、大砲の扱いも手伝ったと伝わります。',
-  build(){ AIZU_HQ(); const hp=natH(370,320); for(const [x,z] of [[370,320],[384,326],[356,314]]) dc('km_hohou',x,z,{}); dc('az_kinki_pole',392,334,{});
+  build(){ AIZU_HQ(); const hp=natH(370,320); for(const [x,z] of [[370,320],[384,326],[356,314]]) dc('km_hohou',x,z,{}); dc('az_kinki',392,334,{});
     FXS.push({type:'cannon',from:[370,hp,320],to:[TA.cx,30,TA.cz],every:3,spread:16},{type:'cannon',from:[384,natH(384,326),326],to:[-12,12,34],every:4,spread:22});
     unit({spr:KAN,n:12,at:[-200,-260],w:60,d:8,face:[0,1],fire:.15,aim:[-150,-150]}); unit({spr:KAN,n:12,at:[260,-200],w:50,d:8,face:[-1,1],fire:.15,aim:[150,-40]}); unit({spr:KAN,n:10,at:[200,190],w:60,d:8,face:[-1,-1],fire:.15,aim:[100,100]}); unit({spr:KAN,n:10,at:[-240,160],w:50,d:8,face:[1,-1],fire:.15,aim:[-150,60]});
     smokeCols([[TA.cx,TA.cz,30],[-12,34,12],[-150,-320],[150,-300]]);
@@ -3319,9 +3319,9 @@ const TOURS={
   [[360,-460,400,-420,1,'8月22日、藩主・松平容保は滝沢本陣に出陣しました'],[400,-398,400,-414,0,'容保は、護衛についていた白虎隊士中二番隊に、戸ノ口原への出陣を命じました'],[420,-400,470,-462,1,'16〜17歳の少年たちは、隊長の日向内記に率いられて戸ノ口原へ向かいます（距離は縮めています）']],
   [[420,-530,480,-470,1,'8月23日未明、雨の戸ノ口原。新政府軍の大軍が押し寄せました'],[466,-456,500,-490,0,'白虎隊は敢死隊などとともに銃で応戦しますが、新式の銃と大砲の前に押されていきます'],[330,-360,372,-320,1,'隊は散り散りになり、少年たちは戸ノ口堰の洞穴をくぐって、飯盛山へと退きました']],
   [[-11,-440,-11,-336,1,'8月23日の朝、新政府軍は甲賀町口郭門を破って城下になだれ込みました。早鐘が鳴り響きます'],[0,-180,60,-238,1,'家老・西郷頼母の屋敷では、頼母を城へ送り出したあと、母や妻、幼い娘たちまで一族21人が自ら命を絶ちました'],[-11,-196,-11,-150,0,'甲賀町通りを進んだ新政府軍は、北出丸から激しい銃撃を受けます。北出丸は「鏖丸（みなごろしまる）」と呼ばれたと伝わります'],[-50,-26,-40,-40,0,'城の鐘を合図に藩士の家族も城へ。山本八重は戦死した弟の服をまとい、スペンサー銃を手に籠城に加わりました']],
-  [[330,-340,372,-320,1,'飯盛山にたどり着いた白虎隊士中二番隊の少年たち'],[412,-286,TA.cx,TA.cz,0,'山の上から城の方角を見ると、城下は炎と煙に包まれていました'],[300,-230,404,-292,1,'もはやこれまでと、19人がこの地で自ら命を絶ちました。城はまだ落ちていませんでした'],[414,-280,404,-292,0,'ただ一人、飯沼貞吉は助けられて生きのび、のちにこの日のことを語り伝えました']],
+  [[330,-340,372,-320,1,'飯盛山にたどり着いた白虎隊士中二番隊の少年たち'],[424,-302,TA.cx,TA.cz,0,'山の上から城の方角を見ると、城下は炎と煙に包まれていました'],[300,-230,404,-292,1,'もはやこれまでと、19人がこの地で自ら命を絶ちました。城はまだ落ちていませんでした'],[420,-296,404,-292,0,'ただ一人、飯沼貞吉は助けられて生きのび、のちにこの日のことを語り伝えました']],
   [[-420,-170,-483,-120,1,'8月25日、照姫を守ろうと集まった中野竹子ら女性たちは、薙刀を手に戦いに加わりました（娘子隊）'],[-452,-108,-483,-120,0,'涙橋（柳橋）のあたりで新政府軍と出会い、竹子らは薙刀で斬り込みました'],[-430,-60,-490,-120,1,'竹子は額に銃弾を受けて倒れ、22歳で亡くなりました。妹の優子らは亡骸を守って退いたと伝わります']],
-  [[-320,70,-250,1,1,'8月26日、日光口から戻った家老・山川大蔵の隊。しかし城は新政府軍に囲まれていました'],[-300,14,-330,2,0,'大蔵は小松村の彼岸獅子の一行を先頭に立て、笛と太鼓を鳴らして堂々と行進させました'],[-150,-60,-196,1,1,'あっけにとられた新政府軍は見送るばかり。隊は一兵も失わずに西出丸から入城したと伝わります']],
+  [[-320,70,-250,1,1,'8月26日、日光口から戻った家老・山川大蔵の隊。しかし城は新政府軍に囲まれていました'],[-296,1,-340,1,0,'大蔵は小松村の彼岸獅子の一行を先頭に立て、笛と太鼓を鳴らして堂々と行進させました'],[-150,-60,-196,1,1,'あっけにとられた新政府軍は見送るばかり。隊は一兵も失わずに西出丸から入城したと伝わります']],
   [[280,220,370,320,1,'9月14日、新政府軍は城の南東の小田山に大砲を据え、総攻撃を始めました'],[-10,-10,TA.cx,TA.cz,1,'砲弾は天守にも何発も命中しました。それでも城は落ちません'],[-24,14,-24,24,0,'城内では照姫を中心に女性たちが負傷者を看護し、落ちた焼玉に濡れた布団をかぶせて消しました'],[40,42,50,52,0,'山本八重は銃を手に戦い、大砲の狙いを定める手伝いもしたと伝わります']],
   [[-60,-260,-11,-206,1,'9月22日、会津藩は降伏を決めました。追手門の前に「降参」と書いた白旗が掲げられます'],[-20,-232,-11,-210,0,'甲賀町通りに敷いた緋毛氈の上で、松平容保は降伏の式に臨みました。人々はこの毛氈を「泣血氈」と呼びました'],[276,-44,290,-50,0,'開城の前夜、八重は三の丸の雑物庫の壁に歌を刻みました。「明日の夜は何国の誰かながむらん なれし御城に残す月かげ」'],[-366,-440,-372,-452,0,'斎藤一は会津に残って戦い、のちに藤田五郎と名を改めました。いまは阿弥陀寺に眠ります。土方歳三は北へ向かい、翌年箱館で戦死しました'],[380,-260,TA.cx,TA.cz,1,'飯盛山には白虎隊十九士の墓が建てられ、いまも多くの人が城を望むその地に花を手向けています']]]};
 const ZOOM={boshin:[]};

diff --git a/README.md b/README.md
@@ -22,4 +22,4 @@
 
 ## 素材
 - 共通素材は https://32miya.github.io/oshiro/common/ を使います（人物・調度・材質）。
-- `assets/deco_aizu.webp`: 鶴ヶ城専用の人物（新政府軍の赤熊・白熊・黒熊、会津藩兵、白虎隊、娘子隊、山本八重、新選組、彼岸獅子、錦の御旗・「會」「誠」の旗など）。共通素材の人物を組み合わせて描き足したものです。
+- `assets/deco_aizu.webp`: 鶴ヶ城専用の人物（新政府軍の赤熊・白熊・黒熊、会津藩兵、白虎隊、娘子隊、山本八重、新選組、彼岸獅子、錦の御旗・「會」「誠」の旗など）。新政府軍・白虎隊・娘子隊・八重・彼岸獅子・會の旗持ちは描き起こしてもらった絵を切り抜いたもの。土方・斎藤・容保などは共通素材の人物を組み合わせたもの。
